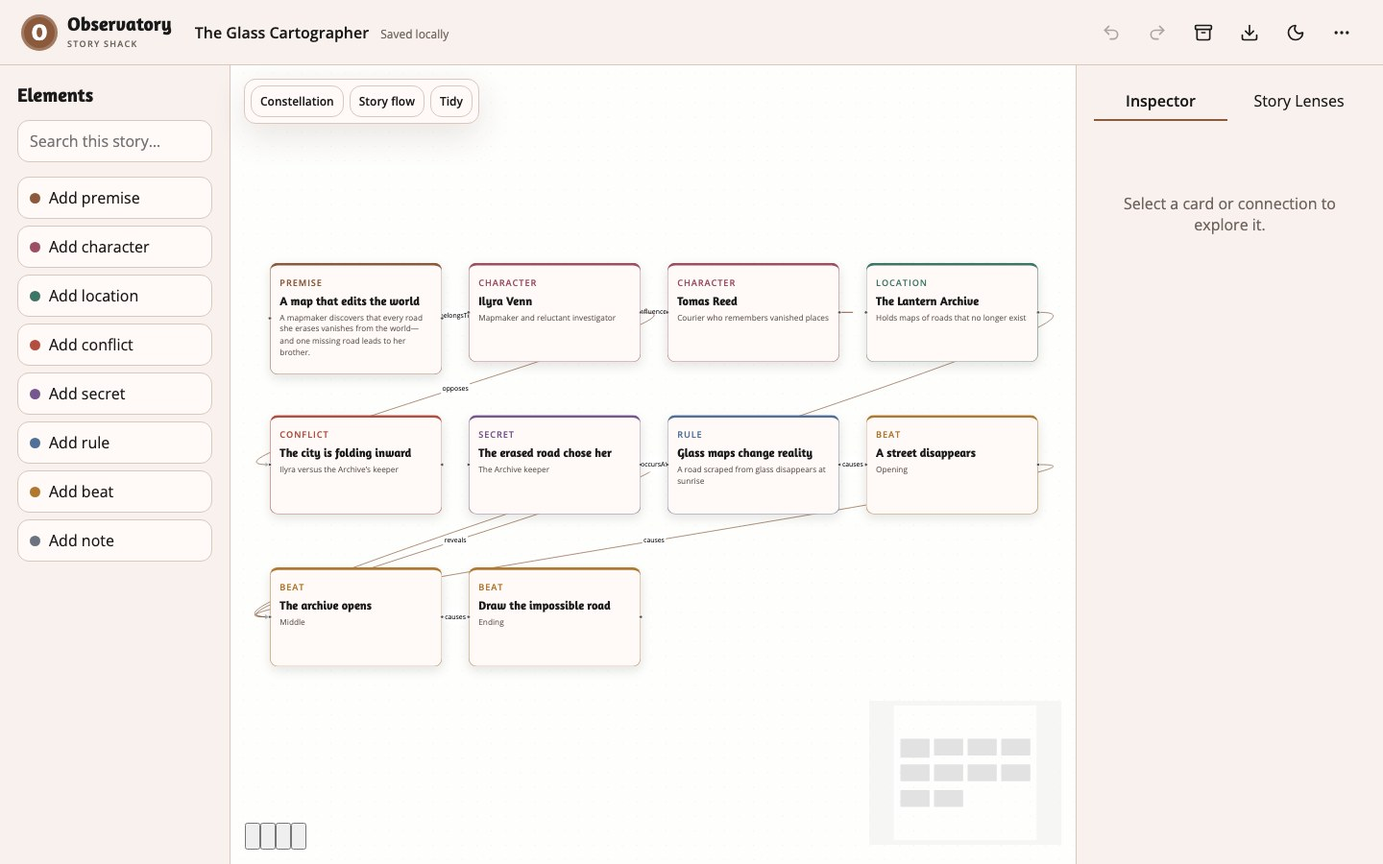
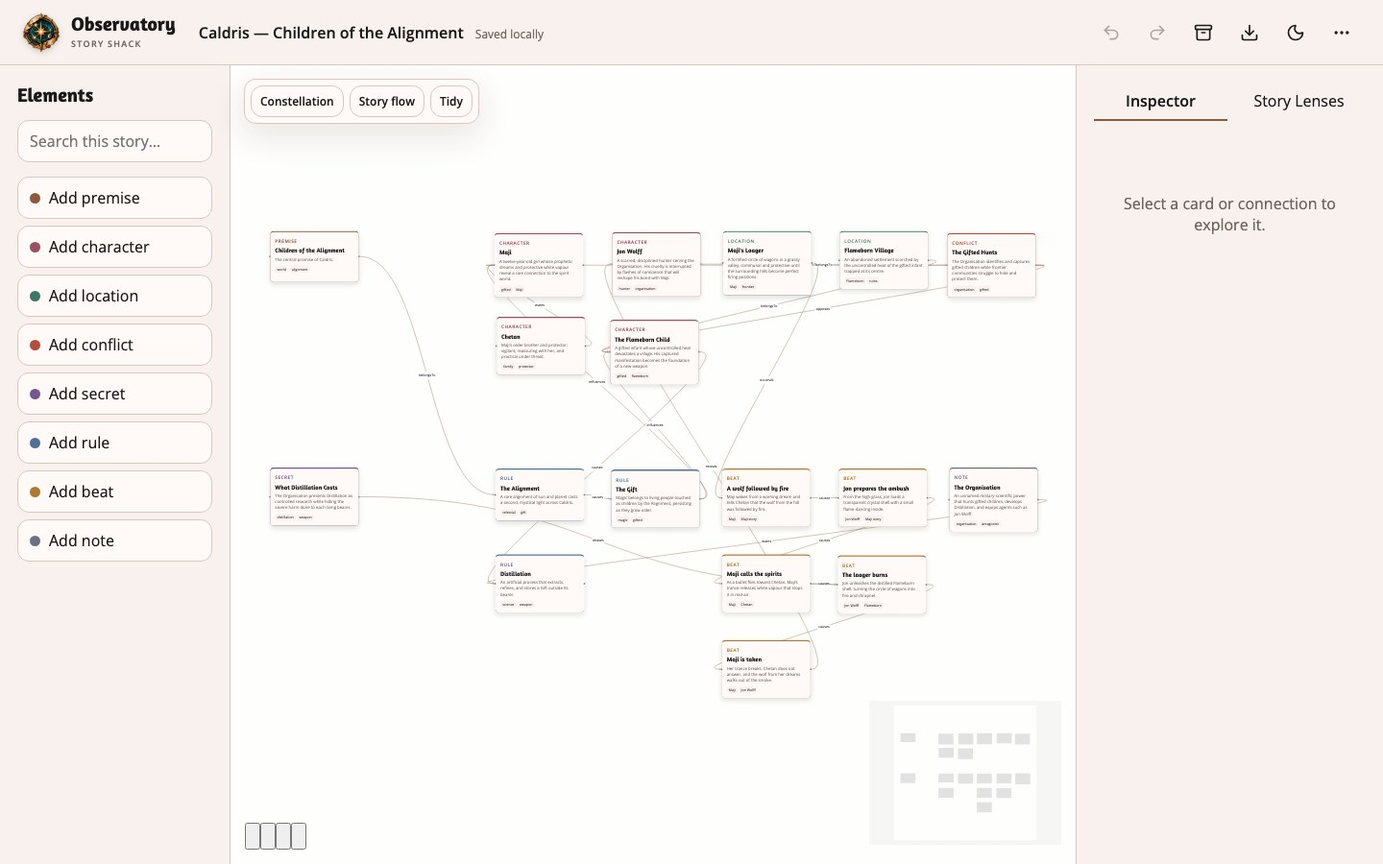
Add Observatory identity and Caldris example

diff --git a/src/data/example.js b/src/data/example.js
@@ -1,27 +1,136 @@
 import { createCard, createProject, nowIso, uuid } from '../constants.js'
+import { constellationLayout } from '../services/layouts.js'
+
+export const EXAMPLE_VERSION = 2
+export const EXAMPLE_PROJECT_TITLE = 'Caldris — Children of the Alignment'
+export const LEGACY_EXAMPLE_TITLE = 'The Glass Cartographer'
 
 export function createExampleBundle() {
-  const project = createProject({ title: 'The Glass Cartographer', premise: 'A mapmaker discovers that every road she erases vanishes from the world—and one missing road leads to her brother.' })
+  const project = createProject({
+    title: EXAMPLE_PROJECT_TITLE,
+    premise: 'In the frontier world of Caldris, a rare celestial Alignment grants extraordinary powers to children—while an expanding organisation hunts them to extract and weaponise their Gifts.',
+  })
+
   const definitions = [
-    ['premise', 'A map that edits the world', { summary: project.premise, promise: 'A tactile mystery about memory, maps, and the cost of certainty.', centralQuestion: 'Can Ilyra restore what she erased without unmaking her home?' }],
-    ['character', 'Ilyra Venn', { role: 'Mapmaker and reluctant investigator', desire: 'Restore the road to her missing brother', fear: 'That she erased him deliberately', stakes: 'Her city is losing one road each dawn', secret: 'Her maps were made from forbidden glass' }],
-    ['character', 'Tomas Reed', { role: 'Courier who remembers vanished places', desire: 'Keep the city connected', fear: 'Being the last person who remembers', stakes: 'Each lost road takes one of his memories' }],
-    ['location', 'The Lantern Archive', { significance: 'Holds maps of roads that no longer exist', atmosphere: 'Dust, green glass, and bells heard through walls', constraints: 'Its doors open only at dusk' }],
-    ['conflict', 'The city is folding inward', { opposingForces: 'Ilyra versus the Archive’s keeper', stakes: 'Entire districts will become unreachable', escalation: 'The vanished roads begin taking names with them', resolution: 'Ilyra must draw a road that has never existed' }],
-    ['secret', 'The erased road chose her', { holder: 'The Archive keeper', consequence: 'Ilyra’s brother crossed willingly', plannedReveal: 'At the midpoint, inside an unlabelled map case' }],
-    ['rule', 'Glass maps change reality', { rule: 'A road scraped from glass disappears at sunrise', cost: 'The cartographer loses one memory of the destination', exception: 'A road drawn in reflected moonlight can return once' }],
-    ['beat', 'A street disappears', { phase: 'Opening', sequence: '1', purpose: 'Prove the impossible rule', outcome: 'Ilyra finds her own initials on the altered map' }],
-    ['beat', 'The archive opens', { phase: 'Middle', sequence: '2', purpose: 'Reveal the larger pattern', outcome: 'Tomas remembers the missing road' }],
-    ['beat', 'Draw the impossible road', { phase: 'Ending', sequence: '3', purpose: 'Force the central choice', outcome: 'Ilyra trades her memory of home for a path forward' }],
+    ['premise', 'Children of the Alignment', 'The central promise of Caldris.', {
+      summary: project.premise,
+      promise: 'Frontier fantasy where spiritual traditions collide with colonial science and weaponised magic.',
+      centralQuestion: 'Can gifted children survive forces determined to classify, control, and consume their power?',
+    }, ['world', 'alignment']],
+    ['character', 'Maji', 'A twelve-year-old girl whose prophetic dreams and protective white vapour reveal a rare connection to the spirit world.', {
+      role: 'Spirit-touched protagonist',
+      desire: 'Survive the hunt and understand her bond with the spirits.',
+      fear: 'Losing Chetan and being unable to call the spirits when they are needed.',
+      stakes: 'Her freedom, her people, and a Gift the Organisation does not understand.',
+      secret: 'Her spirit affinity does not fit the Organisation’s known classifications.',
+    }, ['gifted', 'Maji']],
+    ['character', 'Jon Wolff', 'A scarred, disciplined hunter serving the Organisation. His cruelty is interrupted by flashes of conscience that will reshape his bond with Maji.', {
+      role: 'Antagonist who becomes a conflicted mentor',
+      desire: 'Complete the Organisation’s mission and master the power it has placed in his hands.',
+      fear: 'That conscience will make him weak—or prove his cause indefensible.',
+      stakes: 'His standing, his purpose, and the lives of the children he hunts.',
+      secret: 'He will ultimately remain in Maji’s life as a spirit wolf after his death.',
+    }, ['hunter', 'organisation']],
+    ['character', 'Chetan', 'Maji’s older brother and protector: vigilant, reassuring with her, and practical under threat.', {
+      role: 'Older brother and protector',
+      desire: 'Keep Maji and their travelling community safe.',
+      fear: 'Failing to protect his sister from a danger he cannot see.',
+      stakes: 'His family and the survival of the laager.',
+      secret: 'He understands more about Maji’s connection to the spirits than he says.',
+    }, ['family', 'protector']],
+    ['character', 'The Flameborn Child', 'A gifted infant whose uncontrolled heat devastates a village. His captured manifestation becomes the foundation of a new weapon.', {
+      role: 'Weaponised gifted child',
+      desire: 'Survival before he is old enough to choose anything else.',
+      fear: 'Isolation and the people who treat him as a resource.',
+      stakes: 'His life, agency, and a future shaped by extraction.',
+      secret: 'The Organisation successfully distils his fire into crystal ammunition.',
+    }, ['gifted', 'flameborn']],
+    ['location', "Maji's Laager", 'A fortified circle of wagons in a grassy valley, communal and protective until the surrounding hills become perfect firing positions.', {
+      significance: 'The opening location of Maji, where Jon’s attack reveals her spirit powers and leads to her abduction.',
+      atmosphere: 'Bonfire light and a star-filled sky giving way to gunfire, smoke, and supernatural flame.',
+      constraints: 'The wagons provide cover inside the camp but leave it exposed to attackers on higher ground.',
+    }, ['Maji', 'frontier']],
+    ['location', 'Flameborn Village', 'An abandoned settlement scorched by the uncontrolled heat of the gifted infant trapped at its centre.', {
+      significance: 'Where Jon discovers the Flameborn Child years before the attack on Maji’s laager.',
+      atmosphere: 'Smouldering timber, choking dust, dead vegetation, and furnace-like heat.',
+      constraints: 'The heat makes approach almost impossible; only a stone structure remains intact.',
+    }, ['Flameborn', 'ruins']],
+    ['conflict', 'The Gifted Hunts', 'The Organisation identifies and captures gifted children while frontier communities struggle to hide and protect them.', {
+      opposingForces: 'Gifted children and their communities versus Jon Wolff and the Organisation.',
+      stakes: 'Children are stripped of freedom and power; their Gifts become colonial weapons.',
+      escalation: 'Registries become hunts, extraction becomes standardised, and distilled manifestations enter the arsenal.',
+      resolution: 'Unresolved: Maji’s unclassifiable spirit affinity may challenge the system built to contain her.',
+    }, ['organisation', 'gifted']],
+    ['secret', 'What Distillation Costs', 'The Organisation presents Distillation as controlled research while hiding the severe harm done to each living bearer.', {
+      holder: 'The Organisation and its researchers',
+      consequence: 'Every new weapon proves that a child’s Gift can be separated, stored, and used by someone else.',
+      plannedReveal: 'Jon’s crystal Flameborn shell reveals the truth during the attack on the laager.',
+    }, ['distillation', 'weapon']],
+    ['rule', 'The Alignment', 'A rare alignment of sun and planet casts a second, mystical light across Caldris.', {
+      rule: 'Children exposed to the Alignment’s light can develop persistent supernatural Gifts.',
+      cost: 'The event marks gifted children for reverence, fear, registration, or exploitation.',
+      exception: 'Manifestations differ radically by individual and may resist every known category.',
+    }, ['celestial', 'gift']],
+    ['rule', 'The Gift', 'Magic belongs to living people touched as children by the Alignment, persisting as they grow older.', {
+      rule: 'Each bearer manifests an individual power, from spirit affinity to extraordinary fire and heat.',
+      cost: 'Costs vary by manifestation and remain incompletely understood.',
+      exception: 'Training, limits, age boundaries, and the full range of manifestations remain unresolved.',
+    }, ['magic', 'gifted']],
+    ['rule', 'Distillation', 'An artificial process that extracts, refines, and stores a Gift outside its bearer.', {
+      rule: 'Extracted manifestations can be contained in refined materials such as crystal and deployed by others.',
+      cost: 'The extraction severely harms the gifted person it is taken from.',
+      exception: 'It is unknown whether every manifestation can be distilled—or whether Maji’s spirit affinity can be contained at all.',
+    }, ['science', 'weapon']],
+    ['beat', 'A wolf followed by fire', 'Maji wakes from a warning dream and tells Chetan that the wolf from the hill was followed by fire.', {
+      phase: 'Warning', sequence: '1', purpose: 'Foreshadow Jon’s arrival and establish Maji’s prophetic connection.', outcome: 'Chetan alerts the laager and asks Maji to call the spirits.',
+    }, ['Maji', 'Maji story']],
+    ['beat', 'Jon prepares the ambush', 'From the high grass, Jon loads a transparent crystal shell with a small flame dancing inside.', {
+      phase: 'Attack', sequence: '2', purpose: 'Reveal that the Organisation has weaponised a child’s Gift.', outcome: 'Jon’s men open fire from the hills above the wagons.',
+    }, ['Jon Wolff', 'Maji story']],
+    ['beat', 'Maji calls the spirits', 'As a bullet flies toward Chetan, Maji’s trance releases white vapour that stops it in mid-air.', {
+      phase: 'Attack', sequence: '3', purpose: 'Make Maji’s spirit affinity visible under mortal pressure.', outcome: 'The vapour spreads toward the laager’s defenders, briefly shielding them.',
+    }, ['Maji', 'Chetan']],
+    ['beat', 'The laager burns', 'Jon unleashes the distilled Flameborn shell, turning the circle of wagons into fire and shrapnel.', {
+      phase: 'Catastrophe', sequence: '4', purpose: 'Bring the system of extraction directly against Maji’s community.', outcome: 'The laager falls while Maji remains protected inside smoke and flame.',
+    }, ['Jon Wolff', 'Flameborn']],
+    ['beat', 'Maji is taken', 'Her trance breaks. Chetan does not answer, and the wolf from her dreams walks out of the smoke.', {
+      phase: 'Aftermath', sequence: '5', purpose: 'Complete the abduction and bind Maji’s future to Jon Wolff.', outcome: 'Jon carries Maji away from the ruined laager.',
+    }, ['Maji', 'Jon Wolff']],
   ]
-  const cards = definitions.map(([typeId, title, fields], index) => createCard({ projectId: project.id, typeId, title, fields }, index))
+
+  const cards = definitions.map(([typeId, title, body, fields, tags], index) => createCard({ projectId: project.id, typeId, title, body, fields, tags }, index))
   const byTitle = Object.fromEntries(cards.map((card) => [card.title, card]))
   const links = [
-    ['A map that edits the world', 'Ilyra Venn', 'belongsTo'], ['Ilyra Venn', 'The city is folding inward', 'opposes'],
-    ['Tomas Reed', 'Ilyra Venn', 'influences'], ['The erased road chose her', 'The archive opens', 'reveals'],
-    ['The Lantern Archive', 'The archive opens', 'occursAt'], ['Glass maps change reality', 'A street disappears', 'causes'],
-    ['A street disappears', 'The archive opens', 'causes'], ['The archive opens', 'Draw the impossible road', 'causes'],
+    ['Children of the Alignment', 'The Alignment', 'belongsTo'],
+    ['The Alignment', 'The Gift', 'causes'],
+    ['The Gift', 'Maji', 'influences'],
+    ['The Gift', 'The Flameborn Child', 'influences'],
+    ['The Organisation', 'Distillation', 'wants'],
+    ['The Gifted Hunts', 'Maji', 'opposes'],
+    ['The Gifted Hunts', 'The Flameborn Child', 'opposes'],
+    ['Jon Wolff', 'The Gifted Hunts', 'belongsTo'],
+    ['Chetan', 'Maji', 'wants'],
+    ["Maji's Laager", 'A wolf followed by fire', 'occursAt'],
+    ['A wolf followed by fire', 'Jon prepares the ambush', 'causes'],
+    ['Jon prepares the ambush', 'Maji calls the spirits', 'causes'],
+    ['Maji calls the spirits', 'The laager burns', 'causes'],
+    ['The laager burns', 'Maji is taken', 'causes'],
+    ['What Distillation Costs', 'The laager burns', 'reveals'],
+    ['The Flameborn Child', 'Distillation', 'causes'],
+    ['Flameborn Village', 'The Flameborn Child', 'belongsTo'],
+    ['Maji is taken', 'Jon Wolff', 'reveals'],
   ]
-  const relationships = links.map(([from, to, label]) => ({ id: uuid(), projectId: project.id, source: byTitle[from].id, target: byTitle[to].id, direction: 'forward', label, description: '', color: '#8b5a3c', createdAt: nowIso(), updatedAt: nowIso(), deletedAt: null }))
+  const relationshipTitles = new Set(cards.map((card) => card.title))
+  const organisation = createCard({ projectId: project.id, typeId: 'note', title: 'The Organisation', body: 'An unnamed military-scientific power that hunts gifted children, develops Distillation, and equips agents such as Jon Wolff.', tags: ['organisation', 'antagonist'] }, cards.length)
+  cards.push(organisation)
+  relationshipTitles.add(organisation.title)
+  byTitle[organisation.title] = organisation
+
+  const relationships = links.filter(([source, target]) => relationshipTitles.has(source) && relationshipTitles.has(target)).map(([source, target, label]) => ({
+    id: uuid(), projectId: project.id, source: byTitle[source].id, target: byTitle[target].id,
+    direction: 'forward', label, description: '', color: '#8b5a3c', createdAt: nowIso(), updatedAt: nowIso(), deletedAt: null,
+  }))
+  const positions = new Map(constellationLayout(cards, relationships.map((relationship) => ({ ...relationship, sourceId: relationship.source, targetId: relationship.target }))).map((entry) => [entry.id, entry.position]))
+  for (const card of cards) card.position = positions.get(card.id) || card.position
   return { project, cards, relationships, groups: [], cardTypes: [], media: [] }
 }

diff --git a/tests/e2e/workflow.spec.js b/tests/e2e/workflow.spec.js
@@ -1,3 +1,3 @@
 import { test,expect } from '@playwright/test'
-test('opens the example and adds a story element in both themes',async({page})=>{await page.goto('/');await expect(page.getByRole('heading',{name:'Story Shack Observatory'})).toBeVisible();await page.getByRole('button',{name:/Open The Glass Cartographer/}).click();await expect(page.getByText('The Glass Cartographer',{exact:true})).toBeVisible();await page.getByRole('button',{name:'Add character'}).click();await expect(page.locator('.inspector input').first()).toHaveValue('Untitled character');await page.getByTitle('Switch theme').click();await expect(page.locator('.app-shell')).toHaveClass(/theme-charcoal/)})
-test('mobile offers the grouped story list',async({page})=>{await page.setViewportSize({width:390,height:844});await page.goto('/');await page.getByRole('button',{name:/Open The Glass Cartographer/}).click();await expect(page.locator('.mobile-list')).toBeVisible();await expect(page.getByText(/Spatial arrangement is available/)).toBeVisible()})
+test('opens the Caldris example and adds a story element in both themes',async({page})=>{await page.goto('/');await expect(page.getByRole('heading',{name:'Story Shack Observatory'})).toBeVisible();await expect(page.locator('.brand-logo')).toBeVisible();await expect(page.locator('.brand-logo')).toHaveJSProperty('naturalWidth',64);await page.getByRole('button',{name:/Open Caldris/}).click();await expect(page.getByText('Caldris — Children of the Alignment',{exact:true})).toBeVisible();await expect(page.getByText('Maji',{exact:true}).first()).toBeVisible();await page.getByRole('button',{name:'Add character'}).click();await expect(page.locator('.inspector input').first()).toHaveValue('Untitled character');await page.getByTitle('Switch theme').click();await expect(page.locator('.app-shell')).toHaveClass(/theme-charcoal/)})
+test('mobile offers the grouped Caldris story list',async({page})=>{await page.setViewportSize({width:390,height:844});await page.goto('/');await page.getByRole('button',{name:/Open Caldris/}).click();await expect(page.locator('.mobile-list')).toBeVisible();await expect(page.getByText(/Spatial arrangement is available/)).toBeVisible();await expect(page.locator('.mobile-list').getByText('Jon Wolff',{exact:true})).toBeVisible()})

diff --git a/src/stores/workspace.js b/src/stores/workspace.js
@@ -4,7 +4,7 @@ import { createCard, createProject, LIMITS, nowIso, uuid } from '../constants.js
 import { deleteProjectBundle, getDb, getPreference, loadProjectBundle, saveProjectBundle, setPreference } from '../services/db.js'
 import { arrange as calculateLayout } from '../services/layouts.js'
 import { inspectStory } from '../services/lenses.js'
-import { createExampleBundle } from '../data/example.js'
+import { createExampleBundle, EXAMPLE_PROJECT_TITLE, EXAMPLE_VERSION } from '../data/example.js'
 
 // Vue wraps live workspace data in proxies, which structuredClone cannot copy.
 // Logical undo snapshots contain JSON records only; media Blobs stay outside them.
@@ -30,7 +30,13 @@ export const useWorkspaceStore = defineStore('workspace', () => {
     theme.value = await getPreference('theme', globalThis.matchMedia?.('(prefers-color-scheme: dark)').matches ? 'charcoal' : 'basic')
     locale.value = await getPreference('locale', navigator.language?.split('-')[0] || 'en')
     await refreshProjects()
-    if (!projects.value.length && !(await getPreference('exampleCreated', false))) {
+    const exampleVersion = await getPreference('exampleVersion', 0)
+    if (exampleVersion < EXAMPLE_VERSION) {
+      if (!projects.value.some((project) => project.title === EXAMPLE_PROJECT_TITLE)) await saveProjectBundle(createExampleBundle())
+      await setPreference('exampleVersion', EXAMPLE_VERSION)
+      await setPreference('exampleCreated', true)
+      await refreshProjects()
+    } else if (!projects.value.length && !(await getPreference('exampleCreated', false))) {
       await saveProjectBundle(createExampleBundle()); await setPreference('exampleCreated', true); await refreshProjects()
     }
     if ('BroadcastChannel' in globalThis) {

diff --git a/src/services/layouts.js b/src/services/layouts.js
@@ -15,18 +15,19 @@ export function tidyLayout(cards, selectedIds = null) {
 export function constellationLayout(cards, relationships = []) {
   const list = active(cards)
   const types = [...new Set(list.map((card) => card.typeId))]
-  const hubs = new Map(types.map((type, index) => {
-    const angle = (Math.PI * 2 * index) / Math.max(types.length, 1)
-    return [type, { x: 700 + Math.cos(angle) * 430, y: 480 + Math.sin(angle) * 300 }]
-  }))
-  return list.map((card, index) => {
+  const hubs = new Map(types.map((type, index) => [type, {
+    x: 100 + (index % 4) * 660,
+    y: 100 + Math.floor(index / 4) * 690,
+  }]))
+  return list.map((card) => {
     const siblings = list.filter((entry) => entry.typeId === card.typeId)
     const local = siblings.findIndex((entry) => entry.id === card.id)
-    const angle = (Math.PI * 2 * local) / Math.max(siblings.length, 1)
-    const linked = relationships.filter((edge) => edge.sourceId === card.id || edge.targetId === card.id).length
-    const radius = 90 + Math.min(100, siblings.length * 12) - Math.min(30, linked * 6)
     const hub = hubs.get(card.typeId)
-    return { id: card.id, position: { x: hub.x + Math.cos(angle) * radius - CARD_W / 2, y: hub.y + Math.sin(angle) * radius - CARD_H / 2 } }
+    const linked = relationships.filter((edge) => edge.sourceId === card.id || edge.targetId === card.id).length
+    return { id: card.id, position: {
+      x: hub.x + (local % 2) * (CARD_W + GAP_X) - Math.min(linked, 4) * 3,
+      y: hub.y + Math.floor(local / 2) * (CARD_H + GAP_Y) + Math.min(linked, 4) * 3,
+    } }
   })
 }
 

diff --git a/src/assets/main.css b/src/assets/main.css
@@ -4,5 +4,6 @@
 @media(max-width:900px){.workspace{grid-template-columns:190px minmax(0,1fr)}.inspector{position:absolute;right:0;top:68px;bottom:0;width:320px;z-index:15;box-shadow:var(--shadow)}.header-project span{display:none}}
 @media(max-width:700px){.app-header{height:60px;padding:0 12px}.brand span:last-child,.header-project{display:none}.workspace-page{grid-template-rows:60px 1fr}.workspace{display:block;overflow:auto}.palette,.canvas-wrap{display:none}.inspector{display:none}.mobile-list{display:block;padding:14px}.mobile-hint{display:block;color:var(--muted);font-size:12px;padding:10px 12px;background:var(--surface);border-radius:12px}.mobile-card{margin-top:10px;padding:14px;border-radius:12px;background:var(--surface);border-left:4px solid var(--node-color)}.mobile-card h3{margin:4px 0}.mobile-card small{color:var(--muted)}.library-hero{padding-top:42px}.library-toolbar{align-items:flex-start;flex-direction:column}.project-grid{grid-template-columns:1fr}.header-actions{gap:1px}.icon-button{width:38px;height:38px}}
 @media(prefers-reduced-motion:reduce){*,*:before,*:after{scroll-behavior:auto!important;transition:none!important}}
+.brand-logo{width:42px;height:42px;display:block;object-fit:contain;filter:drop-shadow(0 2px 3px rgba(37,25,15,.22))}.boot-logo{margin:auto;object-fit:contain;filter:drop-shadow(0 6px 12px rgba(37,25,15,.24))}
 .mobile-editor{display:none}
 @media(max-width:700px){.mobile-editor{display:grid}.mobile-editor .modal{height:calc(100vh - 24px);max-height:none}}

diff --git a/src/App.vue b/src/App.vue
@@ -17,4 +17,4 @@ watch(() => store.theme, (value) => { document.documentElement.dataset.theme = v
 watch(() => store.locale, (value) => { i18n.locale.value = i18n.availableLocales.includes(value) ? value : 'en'; document.documentElement.lang = i18n.locale.value }, { immediate: true })
 onBeforeUnmount(() => { stopWebMcp?.(); store.dispose() })
 </script>
-<template><div :class="['app-shell', themeClass]"><RouterView v-if="store.ready"/><div v-else class="boot"><span class="brand-mark">O</span><p>Charting the sky…</p></div><div v-if="needRefresh" class="agent-toast"><span class="agent-star">✦</span><div><strong>{{ $t('updateReady') }}</strong><p>Your local work is safe. Update when you are ready.</p></div><button @click="updateServiceWorker(true)">{{ $t('updateNow') }}</button></div><WebMcpActivity/></div></template>
+<template><div :class="['app-shell', themeClass]"><RouterView v-if="store.ready"/><div v-else class="boot"><img class="boot-logo" src="/logo-128.webp" width="96" height="96" alt=""><p>Charting the sky…</p></div><div v-if="needRefresh" class="agent-toast"><span class="agent-star">✦</span><div><strong>{{ $t('updateReady') }}</strong><p>Your local work is safe. Update when you are ready.</p></div><button @click="updateServiceWorker(true)">{{ $t('updateNow') }}</button></div><WebMcpActivity/></div></template>

diff --git a/src/components/AppHeader.vue b/src/components/AppHeader.vue
@@ -14,7 +14,7 @@ async function install(){await installEvent.value?.prompt();installEvent.value=n
 </script>
 <template>
   <header class="app-header">
-    <RouterLink class="brand" to="/" aria-label="Story Shack Observatory home"><span class="brand-mark">O</span><span><strong>Observatory</strong><small>Story Shack</small></span></RouterLink>
+    <RouterLink class="brand" to="/" aria-label="Story Shack Observatory home"><img class="brand-logo" src="/logo-64.webp" width="42" height="42" alt=""><span><strong>Observatory</strong><small>Story Shack</small></span></RouterLink>
     <div v-if="workspace" class="header-project"><strong>{{ store.bundle?.project.title }}</strong><span :class="`save-${store.saveState}`">{{ $t(store.saveState) }}</span></div>
     <nav class="header-actions">
       <template v-if="workspace"><button class="icon-button" :disabled="!store.undoStack.length" :title="$t('undo')" @click="store.undo"><Undo2/></button><button class="icon-button" :disabled="!store.redoStack.length" :title="$t('redo')" @click="store.redo"><Redo2/></button><button class="icon-button" :title="$t('trash')" @click="$emit('trash')"><Archive/></button><button class="icon-button" :title="$t('export')" @click="$emit('export')"><Download/></button></template>

diff --git a/tests/unit/example.test.js b/tests/unit/example.test.js
@@ -1,0 +1,16 @@
+import { describe, expect, it } from 'vitest'
+import { createExampleBundle, EXAMPLE_PROJECT_TITLE, EXAMPLE_VERSION } from '../../src/data/example.js'
+
+describe('Caldris example observatory', () => {
+  it('ships a connected, structured Caldris board', () => {
+    const bundle = createExampleBundle()
+    expect(EXAMPLE_VERSION).toBe(2)
+    expect(bundle.project.title).toBe(EXAMPLE_PROJECT_TITLE)
+    expect(bundle.cards.length).toBeGreaterThanOrEqual(18)
+    expect(bundle.relationships.length).toBeGreaterThanOrEqual(15)
+    expect(bundle.cards.find((card) => card.title === 'Maji')?.fields.desire).toContain('spirits')
+    expect(bundle.cards.find((card) => card.title === 'Jon Wolff')?.fields.role).toContain('Antagonist')
+    expect(bundle.cards.filter((card) => card.typeId === 'beat').map((card) => card.fields.sequence)).toEqual(['1', '2', '3', '4', '5'])
+    expect(bundle.relationships.every((relationship) => bundle.cards.some((card) => card.id === relationship.source) && bundle.cards.some((card) => card.id === relationship.target))).toBe(true)
+  })
+})

diff --git a/index.html b/index.html
@@ -5,8 +5,9 @@
     <meta name="viewport" content="width=device-width, initial-scale=1.0, viewport-fit=cover" />
     <meta name="theme-color" content="#ffffff" />
     <meta name="description" content="See your story as a living constellation." />
-    <link rel="icon" href="/icons/icon-192.png" />
-    <link rel="apple-touch-icon" href="/icons/icon-180.png" />
+    <link rel="icon" type="image/png" sizes="32x32" href="/icons/icon-32.png" />
+    <link rel="icon" type="image/png" sizes="16x16" href="/icons/icon-16.png" />
+    <link rel="apple-touch-icon" sizes="180x180" href="/icons/icon-180.png" />
     <title>Story Shack Observatory</title>
   </head>
   <body>

diff --git a/THIRD_PARTY_NOTICES.md b/THIRD_PARTY_NOTICES.md
@@ -2,4 +2,4 @@
 
 Observatory includes Vue, Pinia, Vue Router, Vue I18n, Vue Flow, idb, JSZip, Ajv, dom-to-image-more, Lucide icons, Vitest, Playwright, Vite, and Vite PWA under their respective open-source licenses.
 
-Amaranth and Open Sans are redistributed under the SIL Open Font License 1.1. The bundled parchment texture is the Story Shack suite texture; its redistribution provenance must be reconfirmed before public release. The placeholder Observatory mark is original project artwork and will be replaced by the final supplied logo.
+Amaranth and Open Sans are redistributed under the SIL Open Font License 1.1. The bundled parchment texture is the Story Shack suite texture; its redistribution provenance must be reconfirmed before public release. The Observatory mark is original Story Shack artwork.

diff --git a/README.md b/README.md
@@ -24,8 +24,6 @@ The app opens at `http://localhost:5182`. Use `npm test`, `npm run test:e2e`, `n
 - Page-scoped WebMCP tools with strict schemas, cancellation, revisions, idempotency, visible activity, and human-approved recoverable deletion.
 - Fourteen interface locales.
 
-The current logo is an explicit placeholder awaiting the final Observatory artwork.
-
 ## Privacy
 
 Normal application use makes no network request and sends no content or usage data to Story Shack. If you deliberately invoke a WebMCP read tool, the bounded content returned by that tool is shared with the browser agent you selected. See [docs/PRIVACY.md](docs/PRIVACY.md).
